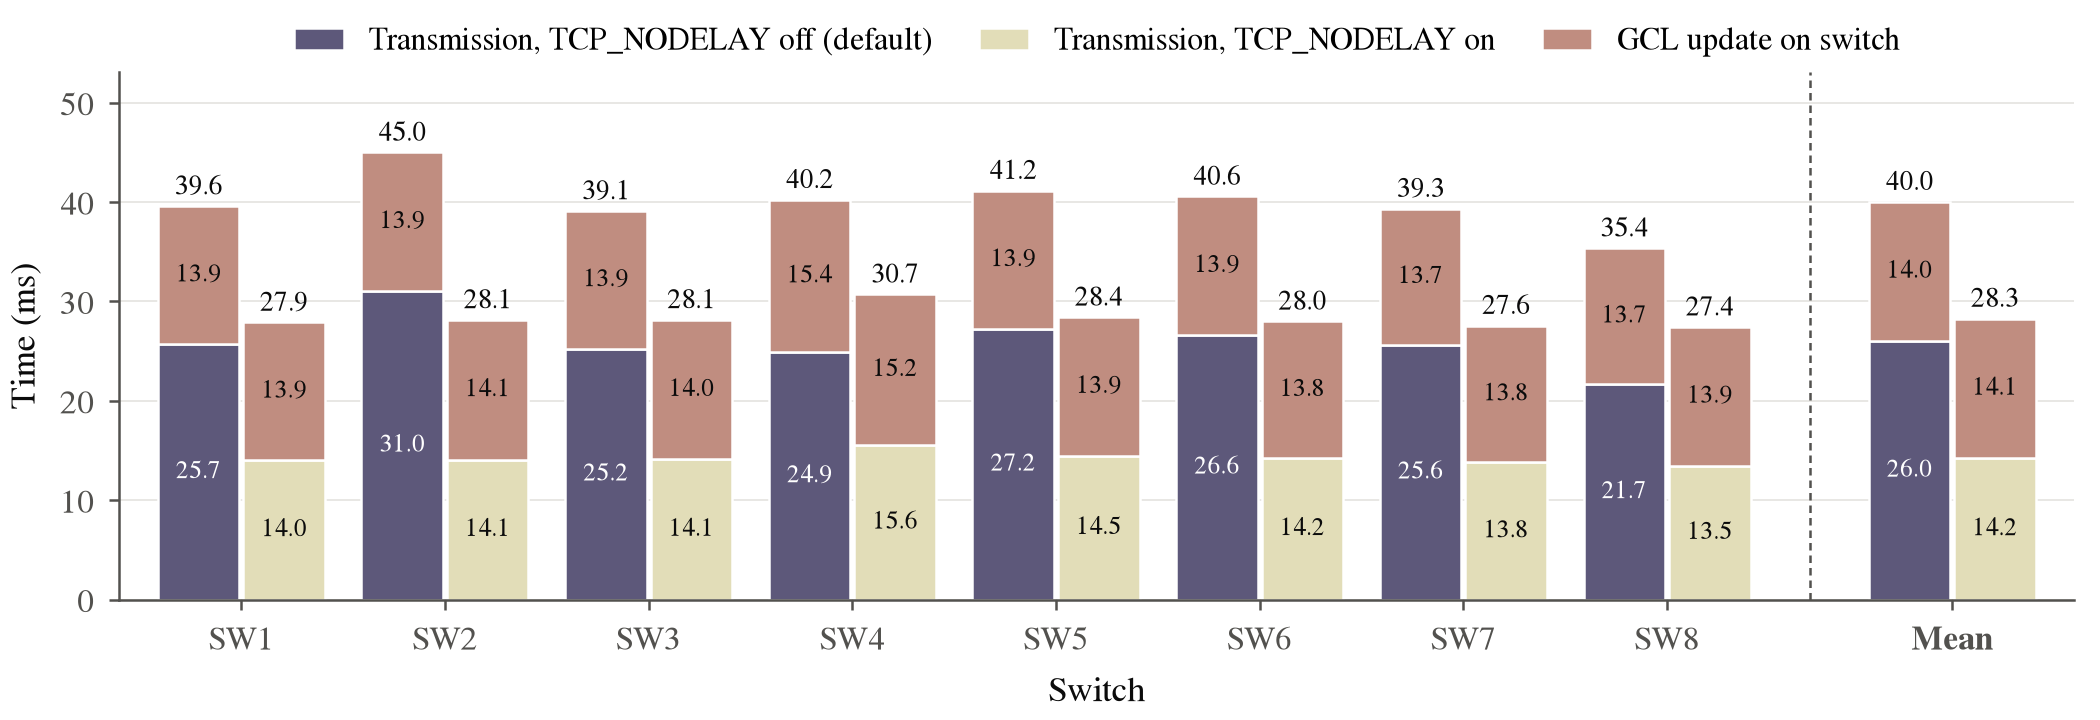
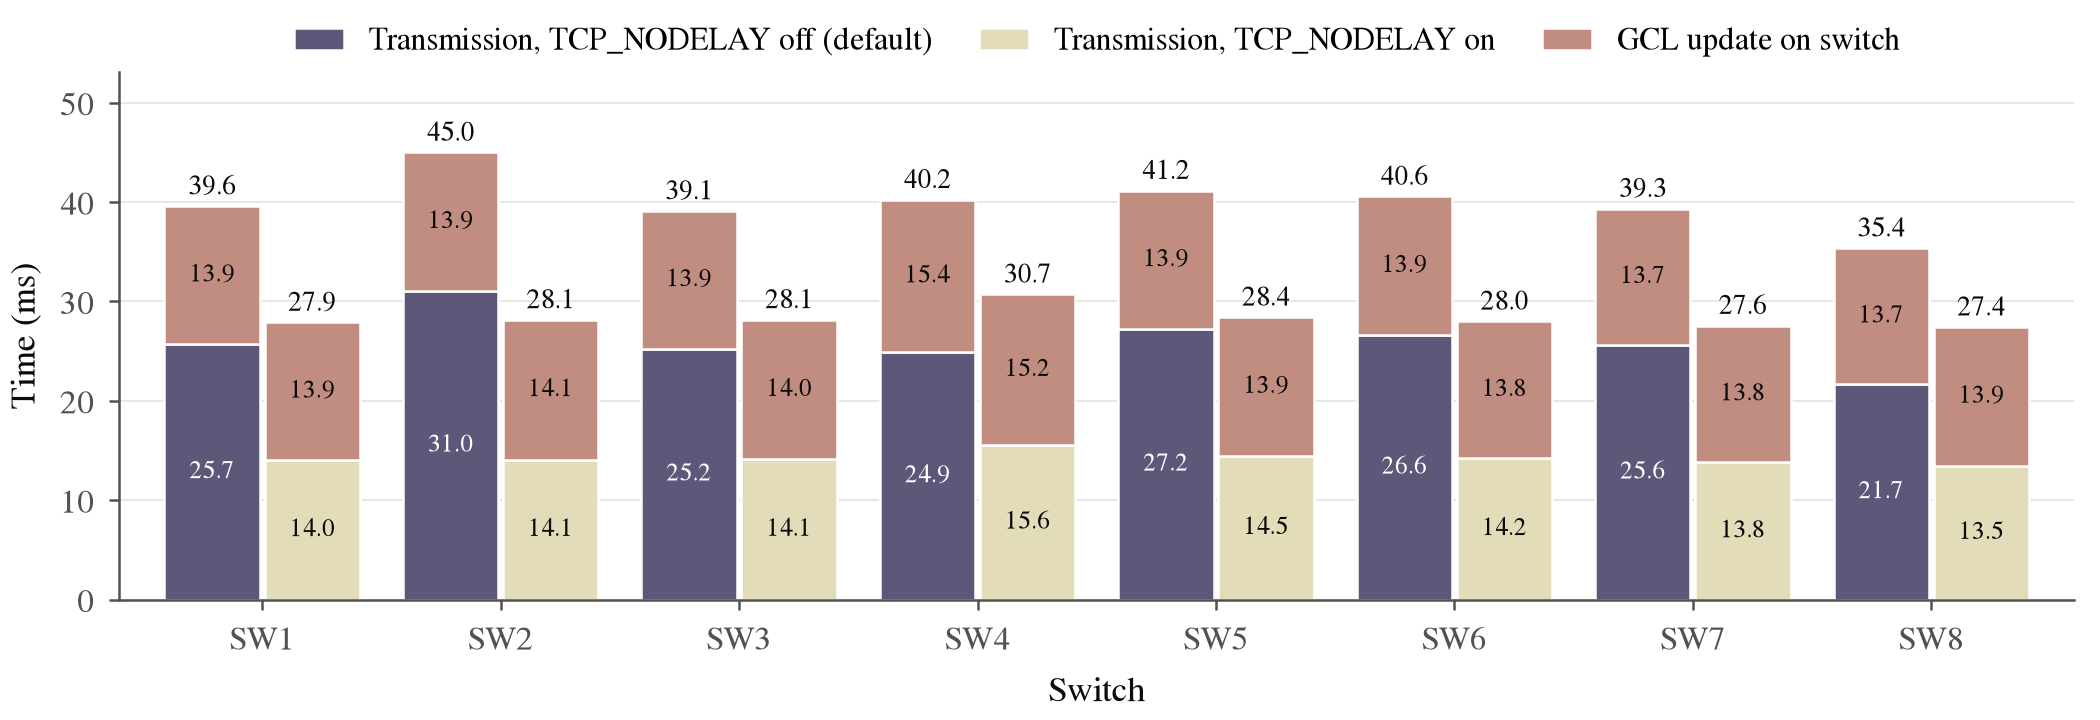
Drop the mean group from the per-switch GCL activation figure
The figure now shows SW1-SW8 only; the means (40.0 ms with TCP_NODELAY
off, 28.3 ms on) stay in gcl_activation_time_per_switch.md.

diff --git a/gcl-schedule-update/plot_update.py b/gcl-schedule-update/plot_update.py
@@ -216,11 +216,8 @@ def plot_per_switch(dirs):
         data.append((nodelay, sws, tx, up))
     data.sort(key=lambda x: x[0])  # default TCP first
     sws = data[0][1]
-    for _, _, tx, up in data:  # a final "Mean" group: average over the switches
-        tx["mean"] = statistics.fmean(tx[s] for s in sws)
-        up["mean"] = statistics.fmean(up[s] for s in sws)
-    cats = sws + ["mean"]
-    pos = np.append(np.arange(len(sws)), len(sws) + 0.4)
+    cats = sws
+    pos = np.arange(len(sws))
     style = {"font.family": "serif", "font.serif": ["Times New Roman", "Times", "STIXGeneral", "DejaVu Serif"],
              "mathtext.fontset": "stix", "font.size": 8, "axes.labelsize": 8.5, "xtick.labelsize": 8,
              "ytick.labelsize": 8, "legend.fontsize": 7.5, "axes.linewidth": 0.6, "grid.linewidth": 0.4,
@@ -245,9 +242,7 @@ def plot_per_switch(dirs):
                 ax.text(xi, ti / 2, f"{ti:.1f}", ha="center", va="center", fontsize=6,
                         color="white" if not nodelay else INK)
                 ax.text(xi, ti + ui / 2, f"{ui:.1f}", ha="center", va="center", fontsize=6, color=INK)
-        ax.axvline(len(sws) - 0.3, color=INK2, lw=0.6, ls=(0, (3, 2)))
-        ax.set_xticks(pos, [s.replace("sw0", "SW") for s in sws] + ["Mean"])
-        ax.get_xticklabels()[-1].set_fontweight("bold")
+        ax.set_xticks(pos, [s.replace("sw0", "SW") for s in sws])
         ax.set_xlabel("Switch")
         ax.set_ylabel("Time (ms)")
         ax.set_ylim(0, max(tx[s] + up[s] for _, _, tx, up in data for s in cats) * 1.18)
